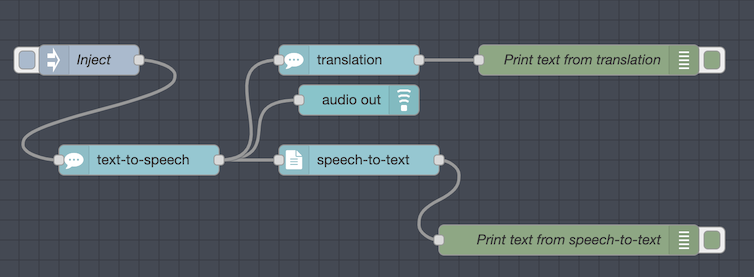
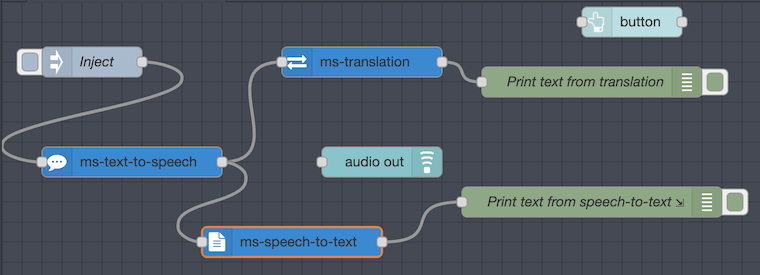
Change node type to avoid duplicate name

diff --git a/speech-to-text/speech-to-text.html b/speech-to-text/speech-to-text.html
@@ -1,5 +1,5 @@
 <script type="text/javascript">
-    RED.nodes.registerType('speech-to-text',{
+    RED.nodes.registerType('ms-speech-to-text',{
         category: 'Azure Cognitive Services',
         color: '#008AD7',
         defaults: {
@@ -31,7 +31,7 @@
         outputs: 1,
         label: function() {
             if (this.name) return this.name;
-            return 'speech-to-text';
+            return 'ms-speech-to-text';
         },
         oneditprepare: function() {
             $('#node-input-inputMode').on('change', function() {
@@ -56,7 +56,7 @@
     });
 </script>
 
-<script type="text/html" data-template-name="speech-to-text">
+<script type="text/html" data-template-name="ms-speech-to-text">
     <div class="form-row">
         <label for="node-input-name"><i class="fa fa-tag"></i> Name </label>
         <input type="text" id="node-input-name" placeholder="Name">
@@ -104,7 +104,7 @@
     </div>
 </script>
 
-<script type="text/html" data-help-name="speech-to-text">
+<script type="text/html" data-help-name="ms-speech-to-text">
     <p> Speech to text service of Microsoft Cognitive Services </p>
     <h3>Inputs</h3>
     <dl class="message-properties">

diff --git a/text-to-speech/text-to-speech.html b/text-to-speech/text-to-speech.html
@@ -1,5 +1,5 @@
 <script type="text/javascript">
-    RED.nodes.registerType('text-to-speech',{
+    RED.nodes.registerType('ms-text-to-speech',{
         category: 'Azure Cognitive Services',
         color: '#008AD7',
         defaults: {
@@ -26,7 +26,7 @@
         outputs: 1,
         label: function() {
             if (this.name) return this.name;
-            return 'text-to-speech';
+            return 'ms-text-to-speech';
         },
         oneditprepare: function() {
             $('#node-input-inputMode').on('change', function() {
@@ -52,7 +52,7 @@
     });
 </script>
 
-<script type="text/html" data-template-name="text-to-speech">
+<script type="text/html" data-template-name="ms-text-to-speech">
     <div class="form-row">
         <label for="node-input-name"><i class="fa fa-tag"></i> Name </label>
         <input type="text" id="node-input-name" placeholder="Name">
@@ -100,7 +100,7 @@
     </div>
 </script>
 
-<script type="text/html" data-help-name="text-to-speech">
+<script type="text/html" data-help-name="ms-text-to-speech">
     <p> Text to speech service of Microsoft Cognitive Services </p>
     <h3>Inputs</h3>
     <dl class="message-properties">

diff --git a/translation/translation.html b/translation/translation.html
@@ -1,5 +1,5 @@
 <script type="text/javascript">
-    RED.nodes.registerType('translation',{
+    RED.nodes.registerType('ms-translation',{
         category: 'Azure Cognitive Services',
         color: '#008AD7',
         defaults: {
@@ -31,7 +31,7 @@
         outputs: 1,
         label: function() {
             if (this.name) return this.name;
-            return 'translation';
+            return 'ms-translation';
         },
         oneditprepare: function() {
             $('#node-input-inputMode').on('change', function() {
@@ -47,7 +47,7 @@
     });
 </script>
 
-<script type="text/html" data-template-name="translation">
+<script type="text/html" data-template-name="ms-translation">
     <div class="form-row">
         <label for="node-input-name"><i class="fa fa-tag"></i> Name </label>
         <input type="text" id="node-input-name" placeholder="Name">
@@ -87,7 +87,7 @@
     </div>
 </script>
 
-<script type="text/html" data-help-name="translation">
+<script type="text/html" data-help-name="ms-translation">
     <p> Speech translation of Microsoft Cognitive Services </p>
     <h3>Inputs</h3>
     <dl class="message-properties">

diff --git a/speech-to-text/speech-to-text.js b/speech-to-text/speech-to-text.js
@@ -25,7 +25,7 @@ module.exports = function(RED) {
         });
     }
 
-    RED.nodes.registerType("speech-to-text", speechToText, {
+    RED.nodes.registerType("ms-speech-to-text", speechToText, {
         credentials: {
             key: { type: 'password' },
             region: { type: 'text' }

diff --git a/text-to-speech/text-to-speech.js b/text-to-speech/text-to-speech.js
@@ -25,7 +25,7 @@ module.exports = function(RED) {
         });
     }
 
-    RED.nodes.registerType("text-to-speech", textToSpeech, {
+    RED.nodes.registerType("ms-text-to-speech", textToSpeech, {
         credentials: {
             key: { type: 'password' },
             region: { type: 'text' }

diff --git a/translation/translation.js b/translation/translation.js
@@ -25,7 +25,7 @@ module.exports = function(RED) {
         });
     }
 
-    RED.nodes.registerType("translation", translation, {
+    RED.nodes.registerType("ms-translation", translation, {
         credentials: {
             key: { type: 'password' },
             region: { type: 'text' }
